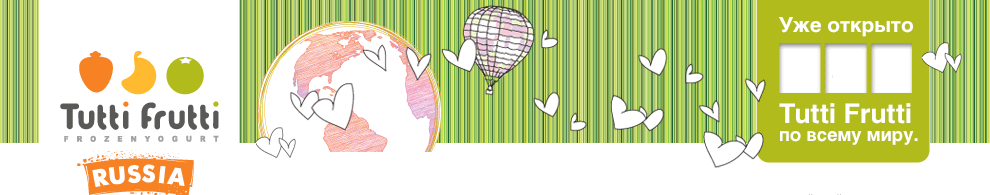
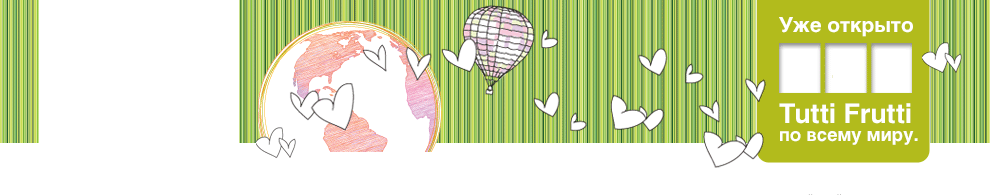
redesign header

Changed region(s): [[0.0606, 0.5231, 0.2424, 0.7385], [0.0606, 0.2462, 0.2121, 0.4923], [0.0606, 0.7692, 0.2121, 1.0]]

diff --git a/app/assets/stylesheets/main.css.scss b/app/assets/stylesheets/main.css.scss
@@ -14,13 +14,6 @@ ul.text li { margin-bottom: 7px; }
   .large-number { font-size: 45px; color: #b2bb1c; font-weight: bold; }
 }
 
-#social { position: absolute; top: 160px; left: 330px; width: 600px; }
-
-ul.social {
-  list-style: none; margin: 0 0 0 10px; display: inline-block;
-  li { list-style: none; display: inline-block; width: 150px; height: 25px; vertical-align: middle; }
-}
-
 #footer { background: url(footer.png) no-repeat bottom; min-height: 380px; margin-bottom: 30px;
   ul { list-style: none; position: absolute; bottom: 70px; left: 180px; background: #fff; border-radius: 20px; padding: 0 15px;
     li { list-style: none; float: left; margin: 5px 10px; }
@@ -30,7 +23,9 @@ ul.social {
   #address { font-size: 12px; position: absolute; bottom: 15px; width: 100%; line-height: 14px; }
 }
 
-#nav { position: absolute; top: 195px; right: 30px; text-indent: 0; margin: 0; list-style: none;
+#social { position: absolute; top: 183px; left: 111px; }
+
+#nav { position: absolute; top: 190px; left: 228px; text-indent: 0; margin: 0; list-style: none;
   li { float: left; list-style: none; margin: 0 10px; }
   a { color: #58585a; text-transform: uppercase; font-size: 14px; }
 }
@@ -59,8 +54,12 @@ ul.social {
   #dot-2 { background: url(logo.png) no-repeat -40px -192px; width: 40px; height: 40px; position: absolute; left: 615px; display: none; }
 }
 #tflogo {
-  left: 57px; top: 30px; position: absolute;
-  a { display: block; height: 174px; width: 168px; }
+  position: absolute;
+  width: 168px;
+  height: 174px;
+  left: 57px;
+  top: 0px;
+  background: url(header-logo.png) no-repeat;
 }
 
 #self-serve-preview { background: url(self-serve-preview.png) no-repeat; width: 350px; height: 300px; position: absolute; right: 22px; top: 231px; z-index: 3;}

diff --git a/config/initializers/pages.rb b/config/initializers/pages.rb
@@ -5,7 +5,6 @@ PAGES = {
   "Вкусы Тутти Фрутти"    => :tastes,
   "Карьера"               => :career,
   "Международный сайт"    => "http://tfyogurt.com/",
-  "Новости"               => "#",
   "Контакты"              => "#address",
 }
 

diff --git a/app/mailers/responses_mailer.rb b/app/mailers/responses_mailer.rb
@@ -12,3 +12,4 @@ class ResponsesMailer < ActionMailer::Base
          subject: "Новое сообщение с сайта TuttiFruttiRussia"
   end
 end
+
